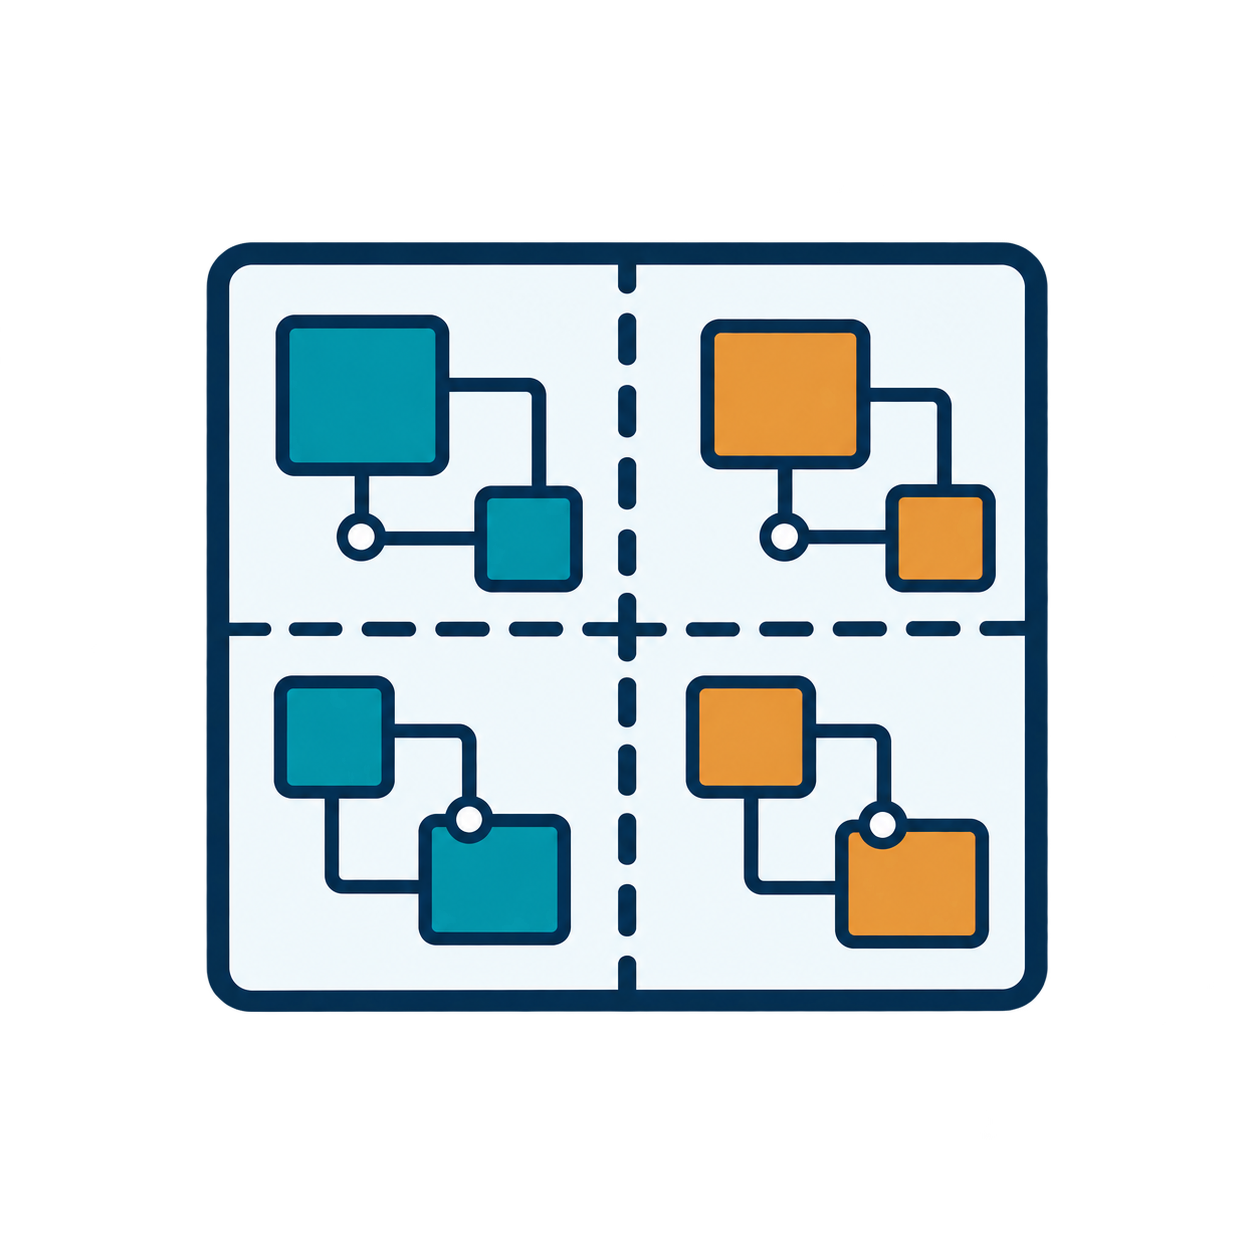
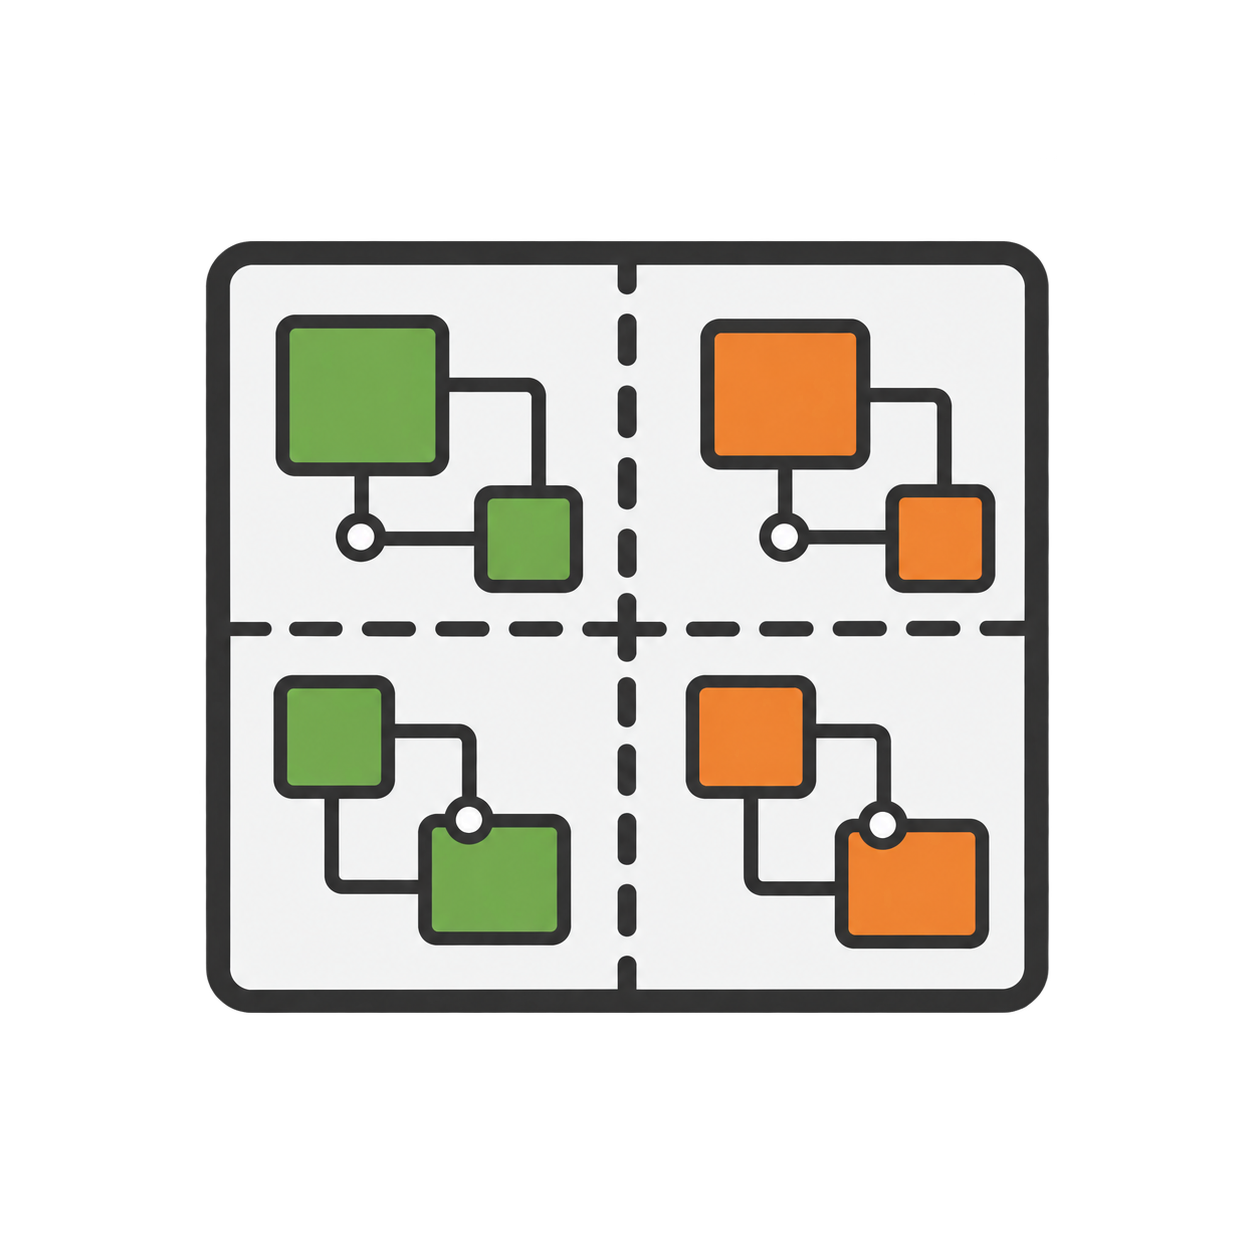
change ppt asset to red style

Changed region(s): [[0.1555, 0.1866, 0.8397, 0.8086]]

diff --git a/figure/ppt-assets/README.md b/figure/ppt-assets/README.md
@@ -17,7 +17,7 @@ The assets are intended to be reused as standalone illustrations, with arrows, m
 | `fabric-topology.png` | FPGA fabric interconnection |
 | `circuit-partitioning.png` | Automated partitioning |
 
-The **source PNG pixels still use the original** Deep Navy, Academic Teal, and Amber Orange palette. The [style guide](../../docs/presentation-style-guide.md) now defaults to Academic Red, but changing the PPT theme cannot recolor raster assets. Keep these originals; any red-theme replacements should be saved separately.
+The ten top-level PNGs now use the **Academic Red illustration palette**, matching `presentation-preview/REMUS_Midterm_Academic_Red/` and `scripts/midterm_pptx/theme.py`: dark gray `#333333` structure, green `#70AD47` auxiliary marks, orange `#ED7D31` emphasis, and neutral light gray/white surfaces. Red is reserved for slide titles, not the icon outlines. Original PNGs are preserved in `navy-teal/`. Existing slide scripts continue to reference the top-level filenames. Existing PPTX files retain their embedded images until rebuilt.
 See the [OfficeCLI implementation plan](../../docs/pptx-implementation-plan.md) for slide-by-slide placement and the [design reference index](../presentation-reference/README.md) for intended layouts.
 
 ## Placement and reuse
@@ -28,4 +28,8 @@ See the [OfficeCLI implementation plan](../../docs/pptx-implementation-plan.md) 
 - `state-capture.png` is a conceptual snapshot illustration, not a scan-chain or DMA architecture diagram.
 - Build multi-FPGA arrangements by repeating `fpga-chip.png` and adding editable links. A four-chip illustration does not establish a completed four-FPGA experiment.
 - The originally proposed `runtime-control` and `host-interface` assets are not included. They can be drawn with editable PowerPoint shapes and labels.
-- Preserve these source PNGs. Put future rendered slide previews in `figure/presentation-preview/`, separate from the component assets and design references.
+- Preserve the original PNGs in `navy-teal/`. Put future rendered slide previews in `figure/presentation-preview/`, separate from the component assets and design references.
+
+## Recoloring record
+
+Recolored with the built-in ImageGen editing tool, one source image per call. Prompt: change only the palette (navy to dark gray, teal to green, amber to orange, pale blue to neutral light gray); retain white, all shapes, topology, arrow directions, lettering, scale, transparent margins and internal transparency. The FPGA-specific prompt preserves the `FPGA` label, pins and white interior. Generated edits can have small raster differences; they are not a pixel-exact color lookup.

diff --git a/docs/presentation-style-guide.md b/docs/presentation-style-guide.md
@@ -70,7 +70,7 @@
 
 - `/usr/bin/python3 scripts/build_midterm_pptx.py --slide N`默认使用`academic-red`主题，加`--theme navy-teal`可生成旧主题。脚本在逐页布局调整后替换原生形状、文字、线条与图表配色，包括布局修订中硬编码的颜色；图片像素不在替换范围。
 - 第6页的新主题时序图已保存为`figure/presentation-reference/midterm-progress-06-academic-red.png`，来源为作者提供的`figure/全局暂停协调时序图.png`。重新构建`academic-red`版本时自动完整按比例插入；旧主题PPTX和原图保留。
-- `figure/ppt-assets/`中的独立PNG仍是旧配色；后续制作新主题图标时应保留原文件，新图存入独立目录。真实实验截图、设备照片与校徽不改色。
+- `figure/ppt-assets/`顶层的10张独立PNG已改为新主题的深灰、绿色和橙色，沿用原文件名供脚本复用；旧配色原图保存在`figure/ppt-assets/navy-teal/`。已有PPTX中的嵌入图片需要重新构建才会更新。真实实验截图、设备照片与校徽不改色。
 
 
 - **插图**：高清PNG（透明背景优先）或SVG可作为独立资产复用，统一放置于仓库`figure/`；原始可编辑文件可保留在该目录的对应子目录。生成图不可覆盖实际实验照片。
